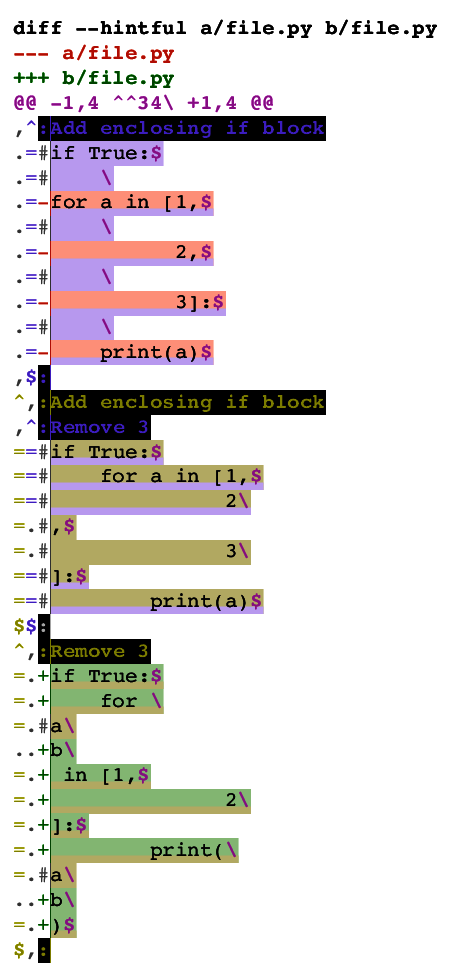
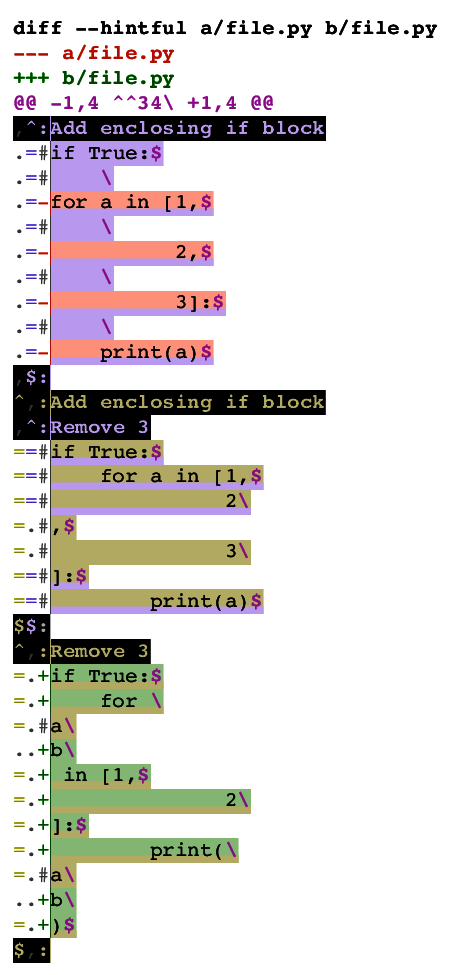
Coloring fixes

diff --git a/implementations/python3/implementation.py b/implementations/python3/implementation.py
@@ -366,7 +366,6 @@ def formatDiffHelper(inputObjs, task="raw"):
         nlm=None
         palette=[None, "black", "red", "yellow", "green", "blue", "magenta", "grey", "lightred", "lightyellow", "lightgreen", "lightblue", "lightmagenta", "lightgrey"]
         snippetcolors=["lightyellow", "lightblue"]
-        snippetlabelcolors=["yellow", "blue"] if task=="highlight" else snippetcolors
         bar='' if task=="raw" else {'op': 'bar'}
         def colorize(fg=None, bold=False, bg=None, bg2=None):
             if(task=="raw"): return ''
@@ -374,7 +373,7 @@ def formatDiffHelper(inputObjs, task="raw"):
                 return {
                     'op': 'colorize',
                     'fg': "lightgrey",
-                    'bold': bold,
+                    'bold': False,
                     'bg': None,
                     'bg2': None,
                 }
@@ -466,7 +465,10 @@ def formatDiffHelper(inputObjs, task="raw"):
                         yield from [
                             '\n',
                             colorize(fg="grey"),
-                            '\\ No newline at end of file\n',
+                            '\\',
+                            bar,
+                            colorize(fg="grey", bg=contentbgcolor),
+                            ' No newline at end of file\n',
                             ]
                 elif(hunktype=='hintful'):
                     underlinecolor=None
@@ -507,10 +509,9 @@ def formatDiffHelper(inputObjs, task="raw"):
                     for idx, x in enumerate(obj['snippetcolumns']):
                         if(x):
                             yield from [
-                                colorize(fg=snippetlabelcolors[idx], bg="black", bold=True),
+                                colorize(fg=snippetcolors[idx], bg="black", bold=True),
                                 ':',
                                 obj['name'],
-                                colorize(),
                             ]
                 else:
                     yield from prefix
@@ -518,20 +519,20 @@ def formatDiffHelper(inputObjs, task="raw"):
                     for idx, x in enumerate(obj['snippetcolumns']):
                         if(x):
                             yield from [
-                                colorize(fg=snippetlabelcolors[idx], bold=True),
+                                colorize(fg=snippetcolors[idx], bg="black", bold=True),
                                 '^',
                             ]
                             if(onecolor):
                                 onecolor="too many"
                             else:
-                                onecolor=snippetlabelcolors[idx]
+                                onecolor=snippetcolors[idx]
                         else:
                             yield from [
-                                colorize(fg="grey", bold=True),
+                                colorize(fg="grey", bg="black"),
                                 ',',
                             ]
                     yield from [
-                        colorize(fg="lightgrey" if onecolor in [None, "too many"] else onecolor, bg="black", bold=onecolor not in [None, "too many"]),
+                        colorize(fg="lightgrey" if onecolor in [None, "too many"] else onecolor, bg="black", bold=True),
                         ':',
                         bar,
                         obj['name'],
@@ -543,7 +544,7 @@ def formatDiffHelper(inputObjs, task="raw"):
                     for idx, x in enumerate(obj['snippetcolumns']):
                         if(x):
                             yield from [
-                                colorize(fg=snippetlabelcolors[idx], bg="black", bold=True),
+                                colorize(fg=snippetcolors[idx], bg="black", bold=True),
                                 ':',
                             ]
                     yield { 'op': 'endGlueContent' }
@@ -553,20 +554,20 @@ def formatDiffHelper(inputObjs, task="raw"):
                     for idx, x in enumerate(obj['snippetcolumns']):
                         if(x):
                             yield from [
-                                colorize(fg=snippetlabelcolors[idx], bold=True),
+                                colorize(fg=snippetcolors[idx], bg="black", bold=True),
                                 '$',
                             ]
                             if(onecolor):
                                 onecolor="too many"
                             else:
-                                onecolor=snippetlabelcolors[idx]
+                                onecolor=snippetcolors[idx]
                         else:
                             yield from [
-                                colorize(fg="grey", bold=True),
+                                colorize(fg="grey", bg="black"),
                                 ',',
                             ]
                     yield from [
-                        colorize(fg="lightgrey" if onecolor in [None, "too many"] else onecolor, bg="black", bold=onecolor not in [None, "too many"]),
+                        colorize(fg="lightgrey" if onecolor in [None, "too many"] else onecolor, bg="black", bold=True),
                         ':',
                         bar,
                         '\n',
